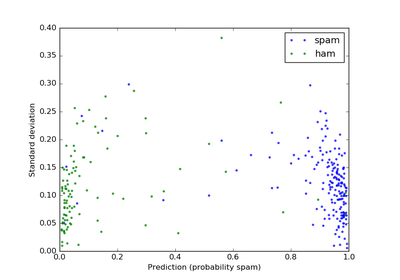
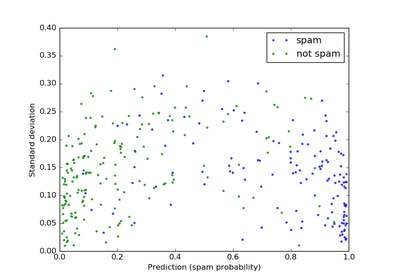
Pushing the docs for revision for branch: master, commit 13b3f791d467d0a5fe26ab3aaabf5d592a9c7ec1

diff --git a/searchindex.js b/searchindex.js
@@ -1,1 +1,1 @@
-Search.setIndex({envversion:49,filenames:["api","auto_examples/index","auto_examples/plot_mpg","auto_examples/plot_spam","index","installation_guide","reference/index","reference/sklforestci","reference/sklforestci.due","sklforestci"],objects:{"":{sklforestci:[9,2,0,"-"]},sklforestci:{calc_inbag:[9,3,1,""],due:[8,2,0,"-"],random_forest_error:[9,3,1,""]}},objnames:{"0":["np","module","Python module"],"1":["np","function","Python function"],"2":["py","module","Python module"],"3":["py","function","Python function"]},objtypes:{"0":"np:module","1":"np:function","2":"py:module","3":"py:function"},terms:{"_generate_sample_indic":[7,9],"default":3,"import":[2,3],"int":[7,9],"public":8,"return":[7,9],abil:4,acknowledg:4,add:4,address:8,alfred:4,algorithm:4,alpha:3,alreadi:[7,9],arrai:[7,9],autom:8,avail:5,bag:9,bar:1,base:[1,3,7,9],befor:5,betti:4,bill:4,blob:8,blue:3,both:4,bsd:8,calc_inbag:[2,3,6],calcul:[1,2,3,4,7,9],can:[1,7,9],car:[1,2],categori:1,chang:5,citat:8,classic:2,classif:1,classifi:[1,7,9],code:[2,3,4,5,7,8,9],column:[7,9],com:[7,8,9],conceiv:8,confid:[0,3],copyright:8,creat:[2,3,7,9],credit:6,cross_valid:[2,3],data:[1,2,3,7,9],datainto:3,dataset:[2,3],decis:9,demonstr:[1,2,3],deriv:[7,9],describ:[2,7,9],develop:[4,8],deviat:3,differ:[1,2,3],directori:5,download:[2,3,4],due:[4,6],duecredit:8,each:[7,9],efron:[4,7,9],email:3,ensembl:[2,3,4],enter:9,error:1,errorbar:[2,3],escienc:4,estim:[3,7,9],examin:4,fci:[2,3],featur:[1,2,3],fetch_mldata:2,filter:1,fit:[2,3,7,9],fmt:[2,3],forest:[0,1],foundat:4,framework:8,from:[1,2,3,4,5,7,9],gate:4,gener:[1,3,4],github:[4,7,8,9],gordon:4,grant:4,green:3,guid:4,ham:3,hasti:[4,7,9],have:8,here:[2,3,4,5,8],how:[1,7,9],http:[7,8,9],idx:3,implement:[4,7,8,9],inadequ:8,inbag:[2,3,7,9],individu:[7,9],infinitesim:[4,7,9],inform:9,insert:8,instal:5,installat:4,institut:4,interv:[3,4],interval:0,introduc:8,ipynb:[2,3],ipython:[2,3],irvine:1,issu:5,item:1,jackknif:[4,7,9],journal:[4,7,9],label:3,learn:[1,2],legend:3,level:5,librari:[1,2],licens:8,like:1,machin:[1,2,4,7,9],make_classif:3,mani:[7,9],master:8,matplotlib:[2,3],matrix:[7,9],max_featur:3,melinda:4,messag:3,method:8,minut:[2,3],mldata:2,modul:[5,9],moor:4,more:9,mpg:[1,2],mpg_data:2,mpg_forest:2,mpg_inbag:2,mpg_v_ij_unbias:2,mpg_x:2,mpg_x_test:2,mpg_x_train:2,mpg_y:2,mpg_y_hat:2,mpg_y_test:2,mpg_y_train:2,n_estim:[2,3],n_featur:[7,9],n_sampl:[7,9],n_tree:[2,3],ndarrai:[7,9],need:5,non:[1,3],note:[7,9],notebook:[2,3],number:[1,7,9],numpi:[2,3,5],object:[1,2,3,4,7,9],origin:8,our:4,outcom:2,packag:[4,8],paramet:[7,9],part:8,pip:5,place:[7,9],plot:1,plot_mpg:2,plot_spam:3,plt:[2,3],point:[3,7,9],predict:[2,3,4],predict_proba:3,predictor:2,previous:4,probabl:3,problem:[4,8],provid:[7,9],pyplot:[2,3],python:[2,3,5,7,9],random:0,random_forest_error:[2,3,6],random_st:[2,3],randomforest:[7,9],randomforestci:[7,9],randomforestclassifi:[1,3,4],randomforestregressor:[1,2,4],readme:[8,9],record:[7,9],recov:[7,9],refer:4,regress:[1,2,4],regressor:[7,9],regresss:1,repo:4,report:2,repositori:1,research:[4,7,9],retreiv:2,row:[7,9],run:[2,3],sampl:[7,9],scientif:8,scipi:5,script:[2,3],second:[2,3],see:[8,9],separ:2,set:[1,2,3],setup:5,shape:[2,3,7,9],show:[2,3],simul:[1,3],sklearn:[2,3,4],sklforestci:[1,2,3,4,5,6],sloan:4,softwar:8,sourc:[2,3,4,5,7,9],spam:[1,3],spam_i:3,spam_inbag:3,spam_rfc:3,spam_v_ij_unbias:3,spam_x:3,spam_x_test:3,spam_x_train:3,spam_y_hat:3,spam_y_test:3,spam_y_train:3,split:[2,3],sqrt:[2,3],standard:[1,3],state:[7,9],support:4,swager:[7,9],synthet:[1,3],target:2,task:1,test:[2,3],test_siz:[2,3],thi:[2,3,4,7,9],through:4,time:[2,3,7,9],top:5,total:[2,3],train:[2,3],train_test_split:[2,3],tree:[7,9],two:1,unbias:[2,3,7,9],univers:4,v_ij_unbias:[7,9],variabl:2,varianc:[2,3,7,9],variou:2,visit:4,vol:[4,7,9],wager2014:[4,7,9],wager:[4,7,9],washington:4,where:3,which:[3,9],wish:5,work:[4,5],x_test:[7,9],x_train:[7,9],xlabel:[2,3],xval:[2,3],yerr:2,ylabel:[2,3],you:5,your:5},titles:["API Documentation","Examples","Plotting Regresssion Forest Error Bars","Plotting Classification Forest Error Bars","Confidence Intervals for Scikit Learn Random Forests","Installation Guide","API Reference","<code class=\"docutils literal\"><span class=\"pre\">sklforestci</span></code>","<code class=\"docutils literal\"><span class=\"pre\">due</span></code>","Random Forest Confidence Intervals"],titleterms:{api:[0,6],bar:[2,3],calc_inbag:7,classif:3,confid:[4,9],credit:8,document:0,due:8,error:[2,3],exampl:1,forest:[2,3,4,9],guid:5,installat:5,interval:[4,9],learn:4,plot:[2,3],random:[4,9],random_forest_error:7,refer:6,regresss:2,scikit:4,sklforestci:7}})
+Search.setIndex({envversion:49,filenames:["api","auto_examples/index","auto_examples/plot_mpg","auto_examples/plot_spam","index","installation_guide","reference/index","reference/sklforestci","reference/sklforestci.due","sklforestci"],objects:{"":{sklforestci:[9,2,0,"-"]},sklforestci:{calc_inbag:[9,3,1,""],due:[8,2,0,"-"],random_forest_error:[9,3,1,""]}},objnames:{"0":["np","module","Python module"],"1":["np","function","Python function"],"2":["py","module","Python module"],"3":["py","function","Python function"]},objtypes:{"0":"np:module","1":"np:function","2":"py:module","3":"py:function"},terms:{"_generate_sample_indic":[7,9],"default":3,"import":[2,3],"int":[7,9],"public":8,"return":[7,9],abil:4,acknowledg:4,add:4,address:8,alfred:4,algorithm:4,alpha:3,alreadi:[7,9],arrai:[7,9],autom:8,avail:5,bag:9,bar:1,base:[1,3,7,9],befor:5,betti:4,bill:4,blob:8,blue:3,both:4,bsd:8,calc_inbag:[2,3,6],calcul:[1,2,3,4,7,9],can:[1,7,9],car:[1,2],categori:1,chang:5,citat:8,classic:2,classif:1,classifi:[1,7,9],code:[2,3,4,5,7,8,9],column:[7,9],com:[7,8,9],conceiv:8,confid:[0,3],copyright:8,creat:[2,3,7,9],credit:6,cross_valid:[2,3],data:[1,2,3,7,9],datainto:3,dataset:[2,3],decis:9,demonstr:[1,2,3],deriv:[7,9],describ:[2,7,9],develop:[4,8],deviat:3,differ:[1,2,3],directori:5,download:[2,3,4],due:[4,6],duecredit:8,each:[7,9],efron:[4,7,9],email:3,ensembl:[2,3,4],enter:9,error:1,errorbar:[2,3],escienc:4,estim:[3,7,9],examin:4,fci:[2,3],featur:[1,2,3],fetch_mldata:2,filter:1,fit:[2,3,7,9],fmt:[2,3],forest:[0,1],foundat:4,framework:8,from:[1,2,3,4,5,7,9],gate:4,gener:[1,3,4],github:[4,7,8,9],gordon:4,grant:4,green:3,guid:4,hasti:[4,7,9],have:8,here:[2,3,4,5,8],how:[1,7,9],http:[7,8,9],idx:3,implement:[4,7,8,9],inadequ:8,inbag:[2,3,7,9],individu:[7,9],infinitesim:[4,7,9],inform:9,insert:8,instal:5,installat:4,institut:4,interv:[3,4],interval:0,introduc:8,ipynb:[2,3],ipython:[2,3],irvine:1,issu:5,item:1,jackknif:[4,7,9],journal:[4,7,9],label:3,learn:[1,2],legend:3,level:5,librari:[1,2],licens:8,like:1,machin:[1,2,4,7,9],make_classif:3,mani:[7,9],master:8,matplotlib:[2,3],matrix:[7,9],max_featur:3,melinda:4,messag:3,method:8,minut:[2,3],mldata:2,modul:[5,9],moor:4,more:9,mpg:[1,2],mpg_data:2,mpg_forest:2,mpg_inbag:2,mpg_v_ij_unbias:2,mpg_x:2,mpg_x_test:2,mpg_x_train:2,mpg_y:2,mpg_y_hat:2,mpg_y_test:2,mpg_y_train:2,n_estim:[2,3],n_featur:[7,9],n_sampl:[7,9],n_tree:[2,3],ndarrai:[7,9],need:5,non:[1,3],note:[7,9],notebook:[2,3],number:[1,7,9],numpi:[2,3,5],object:[1,2,3,4,7,9],origin:8,our:4,outcom:2,packag:[4,8],paramet:[7,9],part:8,pip:5,place:[7,9],plot:1,plot_mpg:2,plot_spam:3,plt:[2,3],point:[3,7,9],predict:[2,3,4],predict_proba:3,predictor:2,previous:4,probabl:3,problem:[4,8],provid:[7,9],pyplot:[2,3],python:[2,3,5,7,9],random:0,random_forest_error:[2,3,6],random_st:[2,3],randomforest:[7,9],randomforestci:[7,9],randomforestclassifi:[1,3,4],randomforestregressor:[1,2,4],readme:[8,9],record:[7,9],recov:[7,9],refer:4,regress:[1,2,4],regressor:[7,9],regresss:1,repo:4,report:2,repositori:1,research:[4,7,9],retreiv:2,row:[7,9],run:[2,3],sampl:[7,9],scientif:8,scipi:5,script:[2,3],second:[2,3],see:[8,9],separ:2,set:[1,2,3],setup:5,shape:[2,3,7,9],show:[2,3],simul:[1,3],sklearn:[2,3,4],sklforestci:[1,2,3,4,5,6],sloan:4,softwar:8,sourc:[2,3,4,5,7,9],spam:[1,3],spam_i:3,spam_inbag:3,spam_rfc:3,spam_v_ij_unbias:3,spam_x:3,spam_x_test:3,spam_x_train:3,spam_y_hat:3,spam_y_test:3,spam_y_train:3,split:[2,3],sqrt:[2,3],standard:[1,3],state:[7,9],support:4,swager:[7,9],synthet:[1,3],target:2,task:1,test:[2,3],test_siz:[2,3],thi:[2,3,4,7,9],through:4,time:[2,3,7,9],top:5,total:[2,3],train:[2,3],train_test_split:[2,3],tree:[7,9],two:1,unbias:[2,3,7,9],univers:4,v_ij_unbias:[7,9],variabl:2,varianc:[2,3,7,9],variou:2,visit:4,vol:[4,7,9],wager2014:[4,7,9],wager:[4,7,9],washington:4,where:3,which:[3,9],wish:5,work:[4,5],x_test:[7,9],x_train:[7,9],xlabel:[2,3],xval:[2,3],yerr:2,ylabel:[2,3],you:5,your:5},titles:["API Documentation","Examples","Plotting Regresssion Forest Error Bars","Plotting Classification Forest Error Bars","Confidence Intervals for Scikit Learn Random Forests","Installation Guide","API Reference","<code class=\"docutils literal\"><span class=\"pre\">sklforestci</span></code>","<code class=\"docutils literal\"><span class=\"pre\">due</span></code>","Random Forest Confidence Intervals"],titleterms:{api:[0,6],bar:[2,3],calc_inbag:7,classif:3,confid:[4,9],credit:8,document:0,due:8,error:[2,3],exampl:1,forest:[2,3,4,9],guid:5,installat:5,interval:[4,9],learn:4,plot:[2,3],random:[4,9],random_forest_error:7,refer:6,regresss:2,scikit:4,sklforestci:7}})

diff --git a/auto_examples/plot_spam.html b/auto_examples/plot_spam.html
@@ -180,16 +180,16 @@ of <a class="reference external" href="http://scikit-learn.org/stable/modules/ge
 
 <span class="n">idx</span> <span class="o">=</span> <span class="n">np</span><span class="o">.</span><span class="n">where</span><span class="p">(</span><span class="n">spam_y_test</span> <span class="o">==</span> <span class="mi">0</span><span class="p">)[</span><span class="mi">0</span><span class="p">]</span>
 <span class="n">plt</span><span class="o">.</span><span class="n">errorbar</span><span class="p">(</span><span class="n">spam_y_hat</span><span class="p">[</span><span class="n">idx</span><span class="p">,</span> <span class="mi">1</span><span class="p">],</span> <span class="n">np</span><span class="o">.</span><span class="n">sqrt</span><span class="p">(</span><span class="n">spam_V_IJ_unbiased</span><span class="p">[</span><span class="n">idx</span><span class="p">]),</span>
-             <span class="n">fmt</span><span class="o">=</span><span class="s1">&#39;.&#39;</span><span class="p">,</span> <span class="n">alpha</span><span class="o">=</span><span class="mf">0.75</span><span class="p">,</span> <span class="n">label</span><span class="o">=</span><span class="s1">&#39;ham&#39;</span><span class="p">)</span>
+             <span class="n">fmt</span><span class="o">=</span><span class="s1">&#39;.&#39;</span><span class="p">,</span> <span class="n">alpha</span><span class="o">=</span><span class="mf">0.75</span><span class="p">,</span> <span class="n">label</span><span class="o">=</span><span class="s1">&#39;not spam&#39;</span><span class="p">)</span>
 
-<span class="n">plt</span><span class="o">.</span><span class="n">xlabel</span><span class="p">(</span><span class="s1">&#39;Prediction (probability spam)&#39;</span><span class="p">)</span>
+<span class="n">plt</span><span class="o">.</span><span class="n">xlabel</span><span class="p">(</span><span class="s1">&#39;Prediction (spam probability)&#39;</span><span class="p">)</span>
 <span class="n">plt</span><span class="o">.</span><span class="n">ylabel</span><span class="p">(</span><span class="s1">&#39;Standard deviation&#39;</span><span class="p">)</span>
 <span class="n">plt</span><span class="o">.</span><span class="n">legend</span><span class="p">()</span>
 <span class="n">plt</span><span class="o">.</span><span class="n">show</span><span class="p">()</span>
 </pre></div>
 </div>
 <p><strong>Total running time of the script:</strong>
-(3 minutes 7.099 seconds)</p>
+(3 minutes 12.269 seconds)</p>
 <div class="sphx-glr-download container">
 <strong>Download Python source code:</strong> <a class="reference download internal" href="../_downloads/plot_spam.py" download=""><code class="xref download docutils literal"><span class="pre">plot_spam.py</span></code></a></div>
 <div class="sphx-glr-download container">

diff --git a/auto_examples/plot_mpg.html b/auto_examples/plot_mpg.html
@@ -187,7 +187,7 @@ various features of different cars, and their MPG.</p>
 </pre></div>
 </div>
 <p><strong>Total running time of the script:</strong>
-(0 minutes 5.869 seconds)</p>
+(0 minutes 6.265 seconds)</p>
 <div class="sphx-glr-download container">
 <strong>Download Python source code:</strong> <a class="reference download internal" href="../_downloads/plot_mpg.py" download=""><code class="xref download docutils literal"><span class="pre">plot_mpg.py</span></code></a></div>
 <div class="sphx-glr-download container">

diff --git a/_downloads/plot_spam.py b/_downloads/plot_spam.py
@@ -45,9 +45,9 @@ plt.errorbar(spam_y_hat[idx, 1], np.sqrt(spam_V_IJ_unbiased[idx]),
 
 idx = np.where(spam_y_test == 0)[0]
 plt.errorbar(spam_y_hat[idx, 1], np.sqrt(spam_V_IJ_unbiased[idx]),
-             fmt='.', alpha=0.75, label='ham')
+             fmt='.', alpha=0.75, label='not spam')
 
-plt.xlabel('Prediction (probability spam)')
+plt.xlabel('Prediction (spam probability)')
 plt.ylabel('Standard deviation')
 plt.legend()
 plt.show()
